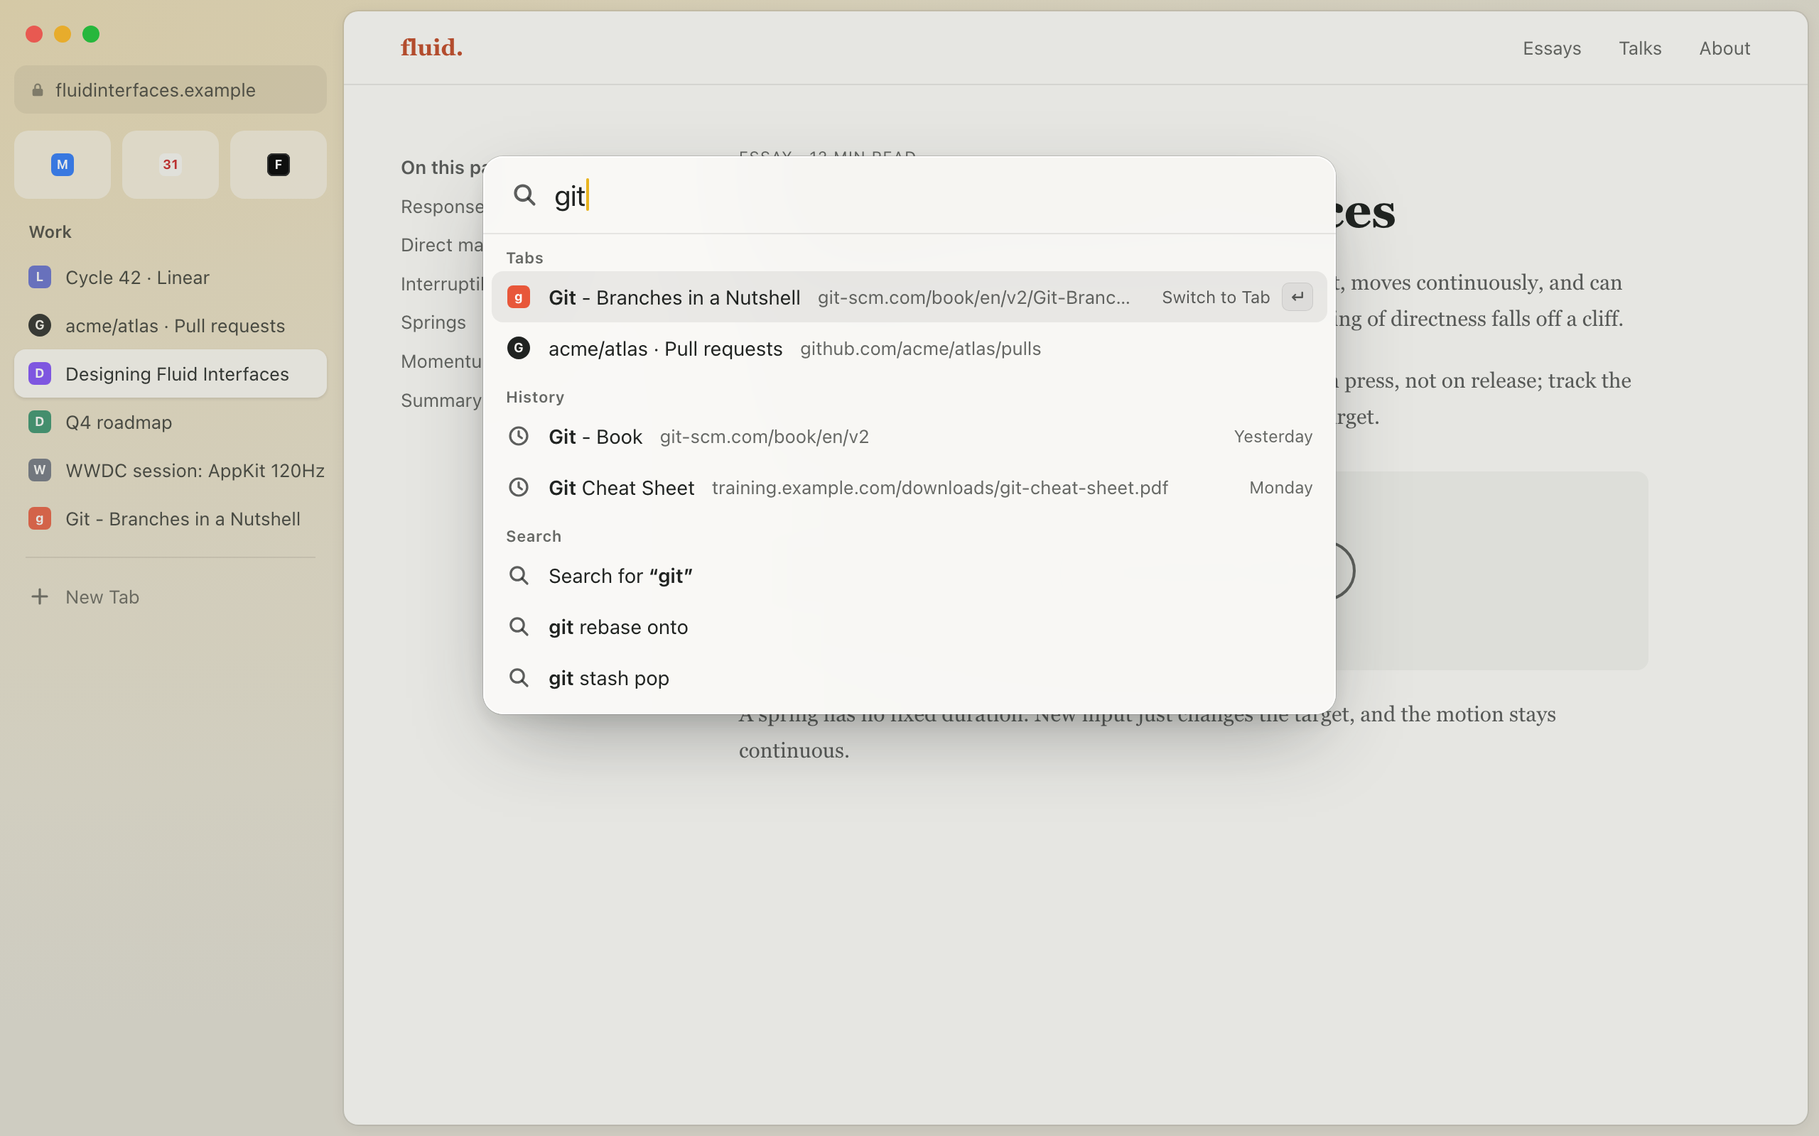
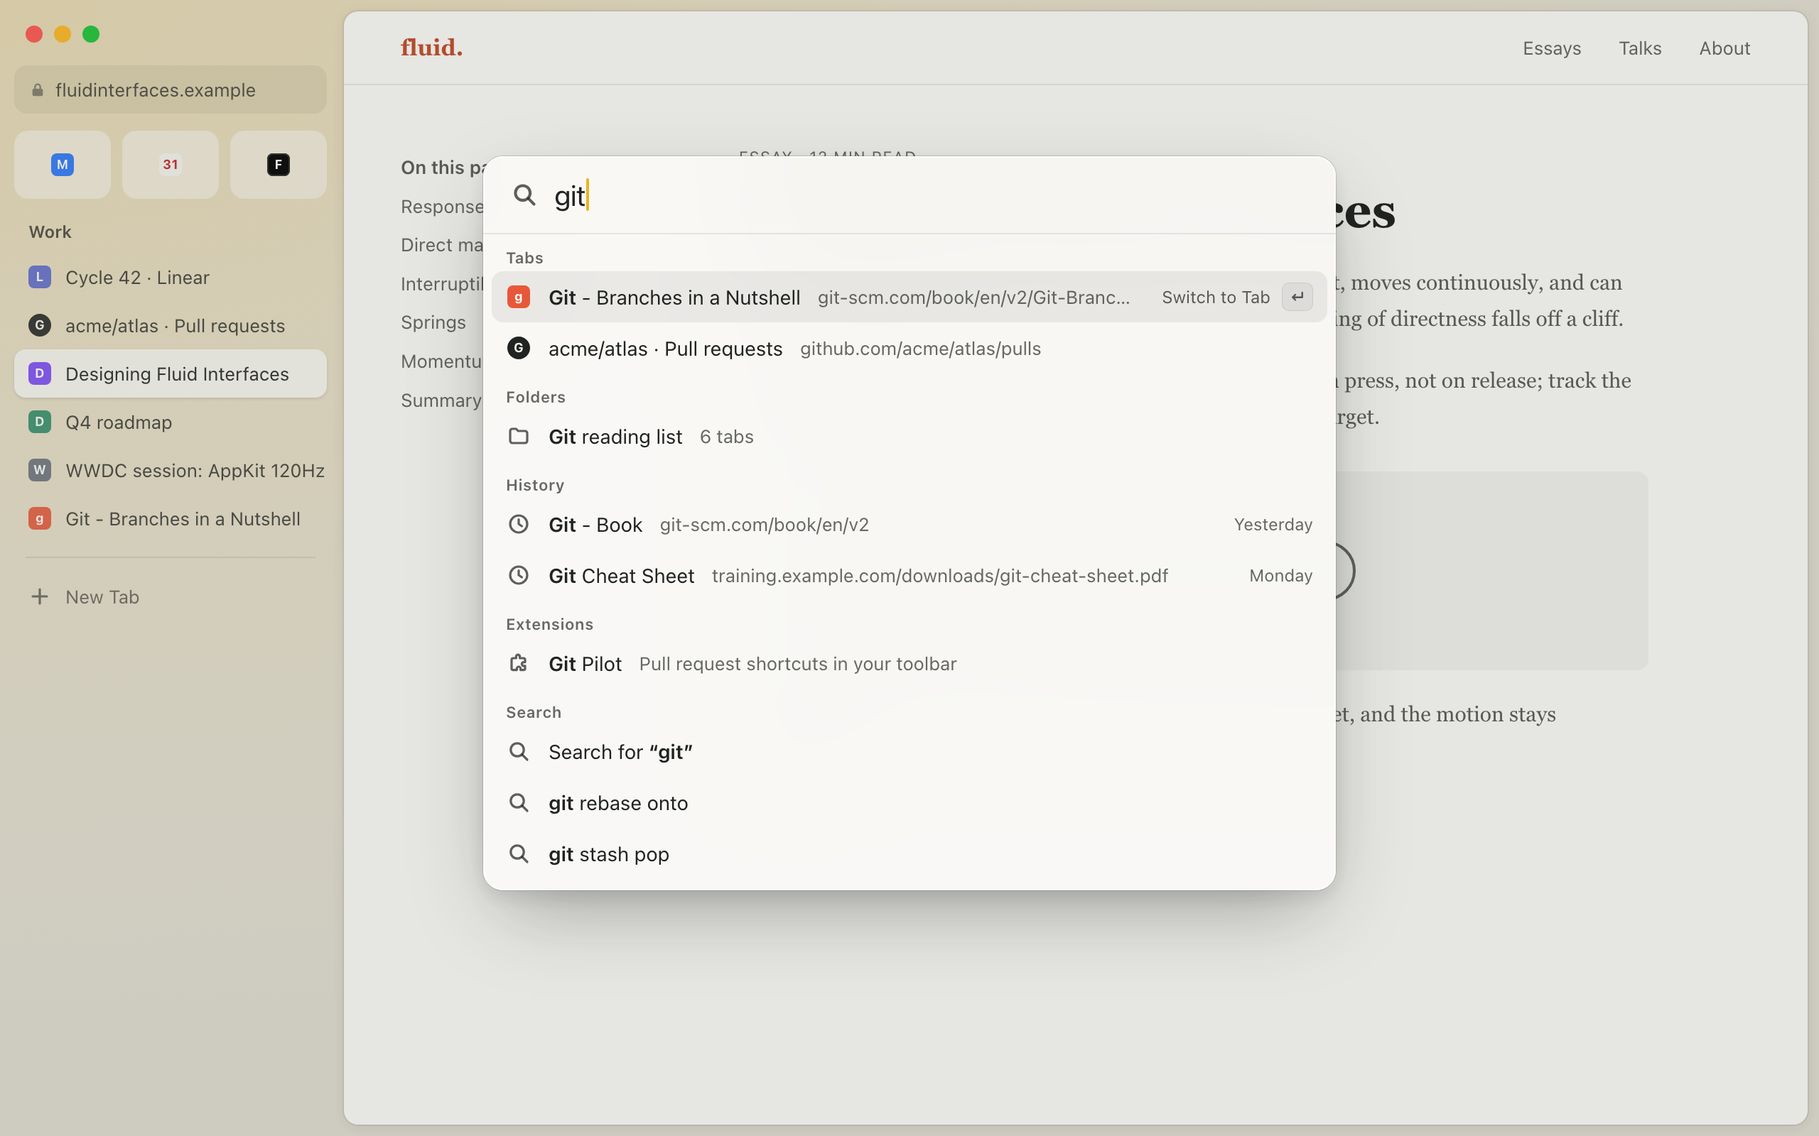
Design: folders and extensions return as result groups, record decisions (#988)

diff --git a/design/command-bar/prototype/data.js b/design/command-bar/prototype/data.js
@@ -4,6 +4,8 @@ const ICO = {
   clock: '<svg class="ico" viewBox="0 0 16 16"><circle cx="8" cy="8" r="6"/><path d="M8 4.8V8l2.2 1.5"/></svg>',
   go: '<svg class="ico" viewBox="0 0 16 16"><circle cx="8" cy="8" r="6"/><path d="M2.4 8h11.2M8 2.2c2 1.7 2.9 3.6 2.9 5.8S10 12.1 8 13.8M8 2.2C6 3.9 5.1 5.8 5.1 8S6 12.1 8 13.8"/></svg>',
   clip: '<svg class="ico" viewBox="0 0 16 16"><rect x="3.5" y="3" width="9" height="10.5" rx="1.8"/><path d="M6 3V2.4h4V3M6 7.5h4M6 10h2.5"/></svg>',
+  folder: '<svg class="ico" viewBox="0 0 16 16"><path d="M2 4.6c0-.9.7-1.6 1.6-1.6h2.6l1.4 1.5h4.8c.9 0 1.6.7 1.6 1.6v5.3c0 .9-.7 1.6-1.6 1.6H3.6c-.9 0-1.6-.7-1.6-1.6z"/></svg>',
+  puzzle: '<svg class="ico" viewBox="0 0 16 16"><path d="M6.2 3.4a1.3 1.3 0 0 1 2.6 0V4.5h2.6c.6 0 1.1.5 1.1 1.1v1.7h-1a1.3 1.3 0 0 0 0 2.6h1v1.8c0 .6-.5 1.1-1.1 1.1H9.3v-1a1.3 1.3 0 0 0-2.6 0v1H4.1c-.6 0-1.1-.5-1.1-1.1V5.6c0-.6.5-1.1 1.1-1.1h2.1z"/></svg>',
   ret: '<svg class="ico" viewBox="0 0 16 16" style="width:12px;height:12px"><path d="M12.5 4v4.5h-9M6 6l-2.5 2.5L6 11"/></svg>',
 };
 const fav = (c, ch) => `<span class="fav ${c}">${ch}</span>`;
@@ -26,6 +28,8 @@ const R = {
   hbook:{ k: 'hist', ic: ICO.clock, t: 'Git - Book', u: 'git-scm.com/book/en/v2', w: 'Yesterday' },
   cheat:{ k: 'hist', ic: ICO.clock, t: 'Git Cheat Sheet', u: 'training.example.com/downloads/git-cheat-sheet.pdf', w: 'Monday' },
   hmaps:{ k: 'hist', ic: ICO.clock, t: 'Trail map · Lake District', u: 'maps.example.com/trails/lake-district', w: 'Sunday' },
+  fold: { k: 'fold', ic: ICO.folder, t: 'Git reading list', u: '6 tabs' },
+  ext:  { k: 'ext', ic: ICO.puzzle, t: 'Git Pilot', u: 'Pull request shortcuts in your toolbar' },
   s1:   { k: 'sugg', ic: ICO.search, t: 'git rebase onto' },
   s2:   { k: 'sugg', ic: ICO.search, t: 'git stash pop' },
   url:  { k: 'url', ic: ICO.go, t: 'git-scm.com', u: 'Go to site' },
@@ -46,6 +50,12 @@ const WORST = [
   W('hist', ICO.clock, 'Flexbox layout cheat sheet', 'flexbox.example.com', 'Monday'),
   W('hist', ICO.clock, 'Masonry layout without JavaScript', 'example.com/blog/masonry', 'Sunday'),
   W('hist', ICO.clock, 'Layout engines compared', 'example.org/wiki/Layout_engine', 'Last week'),
+  W('fold', ICO.folder, 'Layout and typography research, collected for the redesign of the long reading view', '128 tabs'),
+  W('fold', ICO.folder, 'Layout', '9 tabs'),
+  W('fold', ICO.folder, '\u30ec\u30a4\u30a2\u30a6\u30c8\u8cc7\u6599', '14 tabs'),
+  W('ext', ICO.puzzle, 'Layout Inspector Pro with Grid, Flexbox and Baseline Overlays', 'Draws grid and flexbox overlays on any page, measures spacing and exports the result'),
+  W('ext', fav('f-note', 'L'), 'Layout Notes', 'Sticky notes pinned to elements'),
+  W('ext', ICO.puzzle, 'Responsive Layout Tester', 'Resize any page to common widths'),
   W('sugg', ICO.search, 'layout engine internals and how browsers compute style, layout and paint for very large documents'),
   W('sugg', ICO.search, 'layout thrashing'),
   W('sugg', ICO.search, 'layout shift score'),
@@ -63,14 +73,15 @@ const GO = q => ({ k: 'url', ic: ICO.go, t: q });
 const SG = (t) => ({ k: 'sugg', ic: ICO.search, t });
 const STATES = {
   empty:  { q: '', top: [R.paste], g: [['Tabs', [R.lin, R.gh, R.road]], ['History', [R.mail, R.hmaps, R.hbook]]] },
-  search: { q: 'git', top: [], g: [['Tabs', [R.git, R.gh]], ['History', [R.hbook, R.cheat]], ['Search', [LIT('git'), R.s1, R.s2]]] },
+  search: { q: 'git', top: [], g: [['Tabs', [R.git, R.gh]], ['Folders', [R.fold]], ['History', [R.hbook, R.cheat]], ['Extensions', [R.ext]],
+          ['Search', [LIT('git'), R.s1, R.s2]]] },
   url:    { q: 'git-scm.com/book', top: [GO('git-scm.com/book')], g: [['Tabs', [R.git]], ['History', [R.hbook]], ['Search', [LIT('git-scm.com/book')]]] },
-  worst:  { q: 'layout', top: [], g: [['Tabs', WORST.filter(r => r.k === 'tab')], ['History', WORST.filter(r => r.k === 'hist')],
+  worst:  { q: 'layout', top: [], g: [['Tabs', WORST.filter(r => r.k === 'tab')], ['Folders', WORST.filter(r => r.k === 'fold')],
+          ['History', WORST.filter(r => r.k === 'hist')], ['Extensions', WORST.filter(r => r.k === 'ext')],
           ['Search', [LIT('layout'), ...WORST.filter(r => r.k === 'sugg')]]] },
   none:   { q: 'zqxv wplk', top: [], g: [['Search', [LIT('zqxv wplk')]]] },
 };
 STATES.small = STATES.worst;
-STATES.worst.g[2][1][0].t = '\u201clayout\u201d';
 
 /* One row. trail(r, selected) returns the right-hand html. */
 function rowHTML(r, q, sel, trail) {

diff --git a/design/command-bar/prototype/bar.js b/design/command-bar/prototype/bar.js
@@ -2,7 +2,7 @@
    A literal row (Paste and Go, Go to a typed address) sits above the groups, no header.
    The selected row is always the first row. Selecting only changes the fill, never animates. */
 const S = STATES[H.s || 'search'];
-const VERB = { tab: 'Switch to Tab', hist: 'Open', sugg: 'Search', lit: '', url: 'Go', paste: 'Go' };
+const VERB = { tab: 'Switch to Tab', fold: 'Show Folder', ext: 'Open Extension', hist: 'Open', sugg: 'Search', lit: '', url: 'Go', paste: 'Go' };
 const trail = (r, sel) => sel ? (VERB[r.k] ? `<span class="verb">${VERB[r.k]}</span>` : '') + RET : (r.k === 'hist' ? r.w : '');
 let i = 0;
 const row = r => {
@@ -13,7 +13,15 @@ const row = r => {
 const html = S.top.map(row).join('') +
   S.g.map(([name, rows]) => `<div class="grp">${name}</div>` + rows.slice(0, 3).map(row).join('')).join('');
 document.getElementById('root').innerHTML = `<div class="scrim"></div>
-<div class="bar"><div class="field">${ICO.search}${fieldText(S.q)}</div><div class="list">${html}</div>${H.s === 'small' ? '<i class="sb"></i>' : ''}</div>`;
+<div class="bar"><div class="field">${ICO.search}${fieldText(S.q)}</div><div class="list">${html}</div></div>`;
 
 /* Secondary URL is dropped when less than 48 pt of it would remain (the native build measures the same way). */
 document.querySelectorAll('.row .u').forEach(u => { if (u.clientWidth < 48) u.style.display = 'none'; });
+
+/* Overlay scroller when the list is taller than the panel allows. */
+const L = document.querySelector('.list');
+if (L.scrollHeight > L.clientHeight + 1) {
+  const bar = document.querySelector('.bar'), sb = document.createElement('i');
+  sb.className = 'sb'; sb.style.top = (L.offsetTop + 6) + 'px'; sb.style.height = (L.clientHeight * L.clientHeight / L.scrollHeight - 12) + 'px';
+  bar.appendChild(sb);
+}

diff --git a/design/command-bar/README.md b/design/command-bar/README.md
@@ -1,7 +1,7 @@
 # Command bar
 
 Design for the command bar (#988, replacing the hybrid from #112): the overlay that Cmd-T and Cmd-L open to type an
-address, search, switch to an open tab or open a page from history. Everyday chrome, so it uses the system font.
+address, search, switch to an open tab, show a folder, open a page from history or run an extension. Everyday chrome, so it uses the system font.
 
 The maintainer's brief: "simple, fast and reliable". One field, one list, no modes, nothing to learn. The grouped
 direction was picked from four mocks (Spotlight, Inline, Grouped, Answer first). The previous hybrid is kept in
@@ -20,13 +20,15 @@ direction was picked from four mocks (Spotlight, Inline, Grouped, Answer first).
 
 ## What it is, and what it is not
 
-One text field and one list. The list has up to three groups, in a fixed order: **Tabs**, **History**, **Search**.
-Each group shows at most 3 rows. Return runs the selected row. That is the whole surface.
+One text field and one list. The list has up to five groups, in a fixed order: **Tabs**, **Folders**, **History**,
+**Extensions**, **Search**. Each group shows at most 3 rows and only appears when it has rows. Return runs the selected
+row. That is the whole surface.
 
 Removed from the hybrid, and not coming back in this design: filter pills and Cmd-1 to Cmd-4, the preview column and
 Split View in the bar, the hint strip, the Esc key cap, the mustard selection tick and the sliding selection, per-row
-kind labels ("Switch to Tab" on every row), the actions group, site search with its Tab key, archived results and the
-bar widening. Kept: open tabs, history, search suggestions, typed addresses, and Paste and Go as one row.
+kind labels ("Switch to Tab" on every row), the actions group, Space rows, site search with its Tab key, archived results and the
+bar widening. Kept: open tabs, history, search suggestions, typed addresses, and Paste and Go as one row. Added
+back by the maintainer's decision (#562, BH-104): folders and extensions as result groups.
 
 ## Look
 
@@ -79,9 +81,9 @@ All values in points. Window sizes from 640 x 420 (the shell minimum) up.
 | List padding | 6 on the sides, 6 on top, 8 on the bottom |
 | Group header | 11 semibold, tertiary text, +0.02 em tracking; 26 high including 10 above (20 high, 4 above, for the first group) |
 | Row | 36 high, 8 corner radius, 10 horizontal padding, 12 gap |
-| Row slot | 18 wide: favicon 16 (4 radius) or a 16 symbol (clock for history, magnifier for search, globe for Go, clipboard for Paste and Go) |
+| Row slot | 18 wide: favicon 16 (4 radius) or a 16 symbol (clock for history, magnifier for search, globe for Go, clipboard for Paste and Go, folder for a folder, the extension's own icon or a puzzle piece for an extension) |
 | Row title | 14 regular, text; the part that matches the query 600 weight |
-| Row URL | 13 regular, tertiary text, host and path without the scheme |
+| Row secondary text | 13 regular, tertiary text: host and path without the scheme (tabs, history), "<n> tabs" (folders), the extension's short description (extensions) |
 | Trailing | 12; history rows show the relative time ("Yesterday") when not selected; the selected row shows its verb and the Return key cap |
 | Return key cap | 20 high, 5 radius, 11 medium |
 | Scrollbar | system overlay scroller, right edge |
@@ -95,24 +97,46 @@ inserts above the selection.
    - Empty field and the clipboard holds an address: **Paste and Go**, with the address in the URL slot.
    - The field parses as an address (scheme, or `host.tld`, with optional path): **Go**, showing the text as typed.
 2. **Tabs.** Open tabs in this window, all Spaces, excluding the current tab. Matches word starts in the title and in
-   host and path. Ranked by match quality, then by recency of viewing. Empty field: the 3 most recently viewed.
-3. **History.** Browser history, matched like tabs, ranked by frecency. A page that is already an open tab is not
+   host and path. Ranked by match quality, then by recency of viewing. Empty field: the 3 most recently viewed. A tab
+   inside a closed folder is found here; switching to it shows it peeking out under the folder (BH-105, built).
+3. **Folders.** Folders in the Pinned section of this window, nested ones included, matched on the folder name by word
+   starts. Ranked by match quality, then by when a tab in the folder was last viewed. Secondary text: "<n> tabs".
+   Return shows the folder: it opens in the sidebar and scrolls into view, and the bar closes. Not shown for an empty
+   field.
+4. **History.** Browser history, matched like tabs, ranked by frecency. A page that is already an open tab is not
    shown again. Empty field: the 3 most recent visits. Row shows the relative time.
-4. **Search.** Only with text in the field. First row, always present: **Search for "<text>"** with the exact text
+5. **Extensions.** Installed, enabled extensions that have a toolbar action, matched on name and short description by
+   word starts. Ranked by match quality, then by name. Return opens the extension's popup from the toolbar button, as
+   a click would. Not shown for an empty field.
+6. **Search.** Only with text in the field. First row, always present: **Search for "<text>"** with the exact text
    (sent as typed, with the user's search engine from Settings). Then up to 2 suggestions from the search engine when
    "Include search engine suggestions" is on (#562). Suggestions arrive asynchronously and fill rows below the
    literal row; nothing above them moves.
 
+Why this order. Tabs and Folders come first because they are the user's own sidebar: live, nearest, and the usual
+target of Cmd-L/Cmd-T typing. History is the past. Extensions are a rare target, so they sit just above Search, where
+a miss costs one row of scrolling. Search is last on purpose: its suggestions arrive late, and a group at the bottom can
+grow without moving anything above it. Because selection starts on the first row, that is the best match among the
+user's own things, and Cmd-Return is the one key for "no, search the web".
+
 Consequences worth stating: there is no "no results" dead end, because the Search row is always there; an address
-that is also a tab shows both the Go row and the tab; the cap of 3 means the panel is at most 3 groups x 3 rows plus a
-literal row, 10 rows and 3 headers (about 500 high with the field), and in a normal window never scrolls. It scrolls
-only when the window is too short (see small window).
+that is also a tab shows both the Go row and the tab; the cap is 3 rows per group, so the panel has at most 15 rows (a Go row
+only appears when the Search group has just its literal row, so the maximum stays 15) and 5 headers.
+
+Height arithmetic, for the worst case with all five groups full: field 54 + divider 1 + list padding 14 + 15 rows x 36
+(540) + headers 20 + 4 x 26 (124) = 733 pt. The panel may be at most `window height - top - 24` tall, so the worst case
+fits without scrolling only in a window at least 867 pt high (top 110 + 733 + 24). In the 800 pt prototype window the
+worst case scrolls (`worst-*.png` shows the overlay scroller). Typical queries match two or three groups (about
+300 to 520 pt) and fit in any window of 700 pt or more. When it scrolls, moving the selection scrolls the row into view
+with the least movement, and group headers scroll with their rows. The cap of 3 is what keeps the worst case bounded.
 
 ### Truncation
 
 - Titles are one line, tail ellipsis, never wrap. The title is protected: the URL truncates first.
 - The URL is dropped entirely when less than 48 wide would remain, rather than showing a stub.
 - A suggestion that is too long truncates with an ellipsis like a title.
+- **Folder** and **Extension** rows: the name is the title and is protected; the secondary text ("<n> tabs", the
+  description) truncates first and is dropped under the same 48 pt rule.
 - **Go** row: the typed text is the title, tail ellipsis, no URL slot.
 - **Paste and Go** row: the title "Paste and Go" is protected; the clipboard address sits in the URL slot, tail ellipsis, dropped under the same 48 pt rule.
 - The field scrolls horizontally with the caret; it never wraps and never grows.
@@ -122,10 +146,10 @@ only when the window is too short (see small window).
 
 | State | File | Notes |
 |---|---|---|
-| Empty | `empty-{light,dark}.png` | Paste and Go (only when the clipboard holds an address), Tabs (3 recent), History (3 recent). No Search group. |
-| Typing a search | `search-{light,dark}.png` | query "git": Tabs, History, Search with the literal row and 2 suggestions. |
+| Empty | `empty-{light,dark}.png` | Paste and Go (only when the clipboard holds an address), Tabs (3 recent), History (3 recent). No Folders, Extensions or Search group. |
+| Typing a search | `search-{light,dark}.png` | query "git": Tabs, Folders, History, Extensions, Search with the literal row and 2 suggestions. |
 | Typing an address | `url-{light,dark}.png` | the Go row on top, the matching tab and history row below, one literal Search row. |
-| Worst case | `worst-{light,dark}.png` | very long titles and URLs, CJK, all groups full: capped at 3 rows each. |
+| Worst case | `worst-{light,dark}.png` | very long titles and URLs, CJK, all five groups full: capped at 3 rows each, 733 pt tall, so it scrolls in the 800 pt window. |
 | No results | `no-results-{light,dark}.png` | only the Search group with the literal row, selected. The panel shrinks to field plus one row. |
 | Smallest window | `small-window-{light,dark}.png` | 640 x 420: panel 592 wide, top 59, list scrolls. |
 
@@ -139,7 +163,7 @@ Focus never leaves the field. Typing always edits the text; the list is driven b
 | Cmd-L | Open on the current tab. The field holds the current address, fully selected, and the list shows the empty state; typing replaces it. Return opens the result in the current tab. |
 | Up / Down | Move the selection one row, across groups. Wraps from the last row to the first and back on a fresh press; held-key repeat stops at the ends. Ctrl-P and Ctrl-N do the same. |
 | Tab / Shift-Tab | Jump to the first row of the next or previous group. Tab does nothing else (site search is gone). |
-| Return | Run the selected row: Switch to Tab, Open (history), Go, Search, or Paste and Go. |
+| Return | Run the selected row: Switch to Tab, Show Folder, Open (history), Open Extension, Go, Search, or Paste and Go. |
 | Cmd-Return | Search the web for exactly the typed text, whatever is selected. The escape hatch when a tab or history row outranks what you meant. |
 | Cmd-Shift-V | Paste and Go from any state (unchanged from #322). |
 | Cmd-Opt-Delete | Remove the selected history row from history (unchanged from #322). |
@@ -152,7 +176,8 @@ Text editing keys (arrows in the field, Option-arrows, Cmd-A, undo) belong to th
 ## Selected row
 
 A neutral fill over the whole row (no tick, no stroke). The trailing area shows the verb in 12 secondary text and the
-Return key cap: "Switch to Tab", "Open", "Go", "Search" (omitted on the Search for row, which already says it).
+Return key cap: "Switch to Tab" (tab), "Show Folder" (folder), "Open" (history), "Open Extension" (extension), "Go" (Go and
+Paste and Go), "Search" (a suggestion). The Search for row shows the key cap only, because its title already says it.
 Unselected history rows show their time instead. Only the selected row carries a verb, so there is no per-row label
 column to read.
 
@@ -177,7 +202,7 @@ headers, placeholder) uses `commandBarSecondaryText`.
 
 ## What keeps it fast and reliable
 
-- The list is filled synchronously from in-memory indexes (open tabs, history) on every keystroke: top 3 per group,
+- The list is filled synchronously from in-memory indexes (open tabs, folders, history, extensions) on every keystroke: top 3 per group,
   no thumbnails, no preview snapshots, no network on the key path.
 - Favicons come from the existing cache and fall back to a letter tile; a missing one never delays a row.
 - Search suggestions are the only async part. They fill rows below the literal row, never above, and are dropped if
@@ -185,14 +210,14 @@ headers, placeholder) uses `commandBarSecondaryText`.
 - Return always has something to do: the Search row exists whenever there is text, and Paste and Go or Go cover the
   rest.
 - No state to remember between opens: no filter, no preview target, no scope. Each open starts the same way.
-- Bounded work: at most 10 rows laid out, so layout cost is constant.
+- Bounded work: at most 15 rows laid out, so layout cost is constant.
 
 ## Accessibility
 
 - The panel is a dialog group labelled "Command bar". The field is the first element, an `AXTextField` labelled
   "Search or enter address", and keeps focus.
-- The list is an `AXList`. Group headers are `AXGroup` labels ("Tabs", "History", "Search"). Each row reads
-  "<title>, <host>, <kind>, <k> of <n>" with kind one of "open tab", "history", "search suggestion", "search for
+- The list is an `AXList`. Group headers are `AXGroup` labels ("Tabs", "Folders", "History", "Extensions", "Search"). Each row reads
+  "<title>, <host>, <kind>, <k> of <n>" with kind one of "open tab", "folder, <n> tabs", "history", "extension", "search suggestion", "search for
   what you typed", "go to address", "paste and go". The selected row is announced on every move.
 - After typing settles (150 ms), announce the count once: "<n> results". With only the Search row:
   "No matches. Return searches the web."
@@ -201,13 +226,16 @@ headers, placeholder) uses `commandBarSecondaryText`.
 - Text on the glass meets 4.5:1 against both appearance fills; check against the opaque Reduce Transparency fill too.
 - Dynamic type is not a macOS concept here; the sizes above are fixed, as for the rest of the chrome.
 
-## Open questions
+## Decisions
 
-1. **Cmd-Return** is proposed as "search the web for exactly this text". Alternative: open the selected result in a
-   new tab. Confirm.
-2. **Tab key** now jumps between groups. If you prefer, make it do nothing and keep Up/Down only.
-3. **Current tab** is excluded from Tabs. Confirm that Cmd-L on the page you are already on should never offer to
-   "switch" to it.
-4. **Extensions and folders as results** (#562) are not in this design. Say if they should return as a fourth group.
-5. **Space rows** (switch to a Space by name, built in #112) are dropped: tabs in other Spaces are still found under
-   Tabs. Confirm, or say they return as a row kind under Tabs.
+The maintainer answered the open questions on 2026-11-25:
+
+1. The Search for "<text>" row is always present while there is text, so a query never ends in an empty list.
+2. A typed address gets a Go row above the groups, selected.
+3. Cmd-Return searches the web for exactly the typed text, whatever is selected.
+4. Tab and Shift-Tab jump to the first row of the next or previous group.
+5. Up and Down wrap on a fresh press and stop at the ends on a held key repeat.
+6. The current tab is excluded from Tabs.
+7. Space rows are dropped; tabs in other Spaces are still found under Tabs.
+8. Extensions and folders return as result groups (#562, BH-104): Folders after Tabs, Extensions after History, 3 rows
+   each, neither shown for an empty field.
